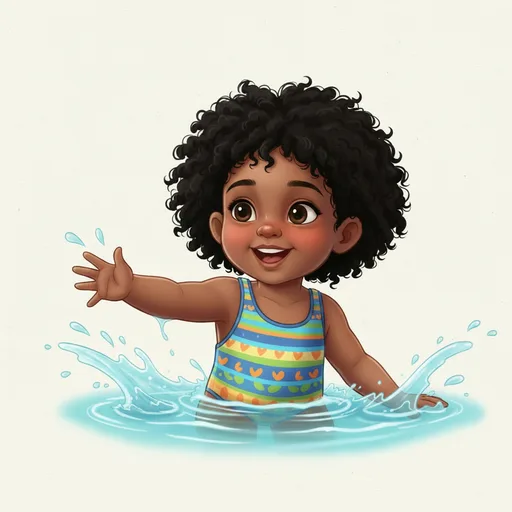
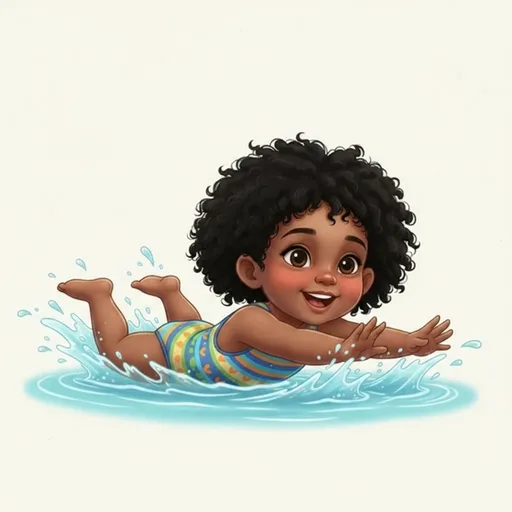
Polish: swimming scene 2 → horizontal paddling pose
act-swim-2 regenerated (locked to act-swim-1: same girl + swimsuit) into a
horizontal swimming position with arms paddling and legs kicking — a livelier
swim loop than two near-identical upright poses. verify-actions green.

diff --git a/TINYVVOICE_PROJECT_CONTEXT.md b/TINYVVOICE_PROJECT_CONTEXT.md
@@ -5,16 +5,16 @@ A git pre-commit hook auto-refreshes the metadata block below; the human-maintai
 sections (Build Status, Next Steps) are updated by hand each push.
 
 <!-- AUTO:START -->
-> _Auto-updated on commit — last refreshed **2026-08-28 20:45 UTC** on branch `main`._
+> _Auto-updated on commit — last refreshed **2026-08-28 20:49 UTC** on branch `main`._
 
 **Recent commits:**
 
+- `b308c8c Fix: waving full-body (both frames) + laughing floating "ha ha ha"`
 - `bcddec5 Feat: animation diversity Batch 2b — final 10 verbs; ALL verbs now diverse`
 - `5acaff7 Feat: animation diversity Batch 2a — 8 verbs re-cast (locked method)`
 - `863b438 Fix: lock clothing consistency on dance/hug/wake (frame2 conditioned on frame1)`
 - `a0a5244 Feat: animation diversity Batch 1b — 6 verbs re-cast; Batch 1 complete`
 - `bc3f4e1 Feat: animation diversity Batch 1a — 5 verbs re-cast (fresh method)`
-- `a8f74d8 Feat: routine images — dressing/bath/park (NEW WORK Phase 4)`
 <!-- AUTO:END -->
 
 ---
